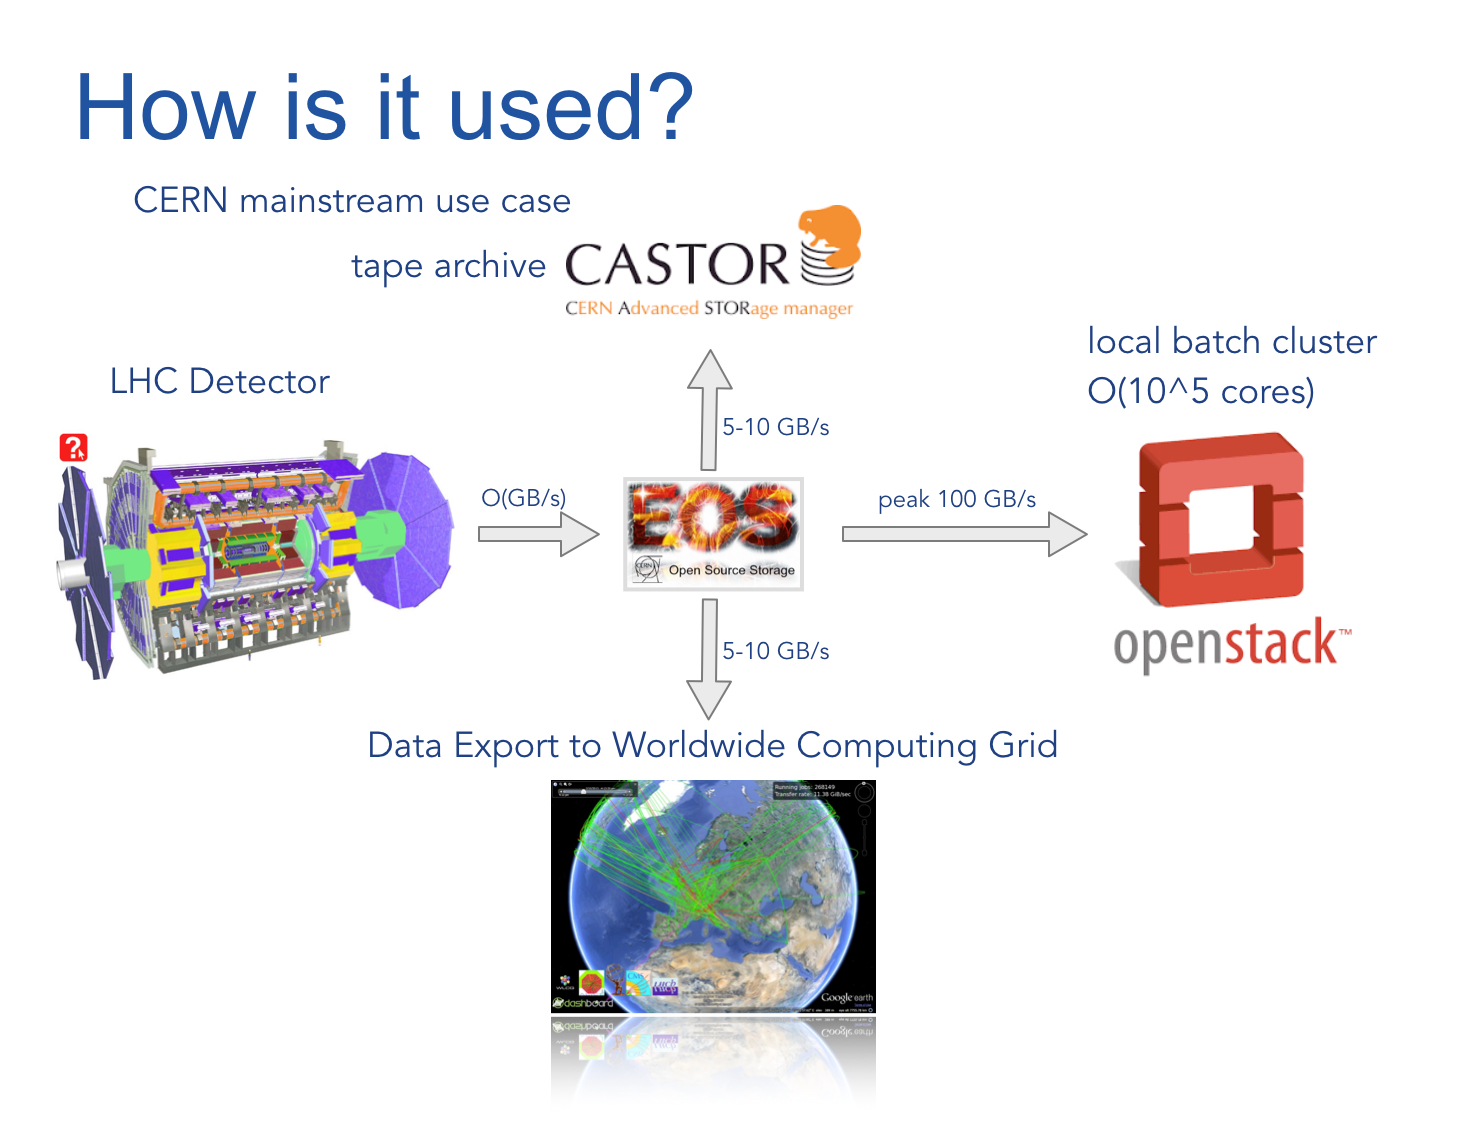
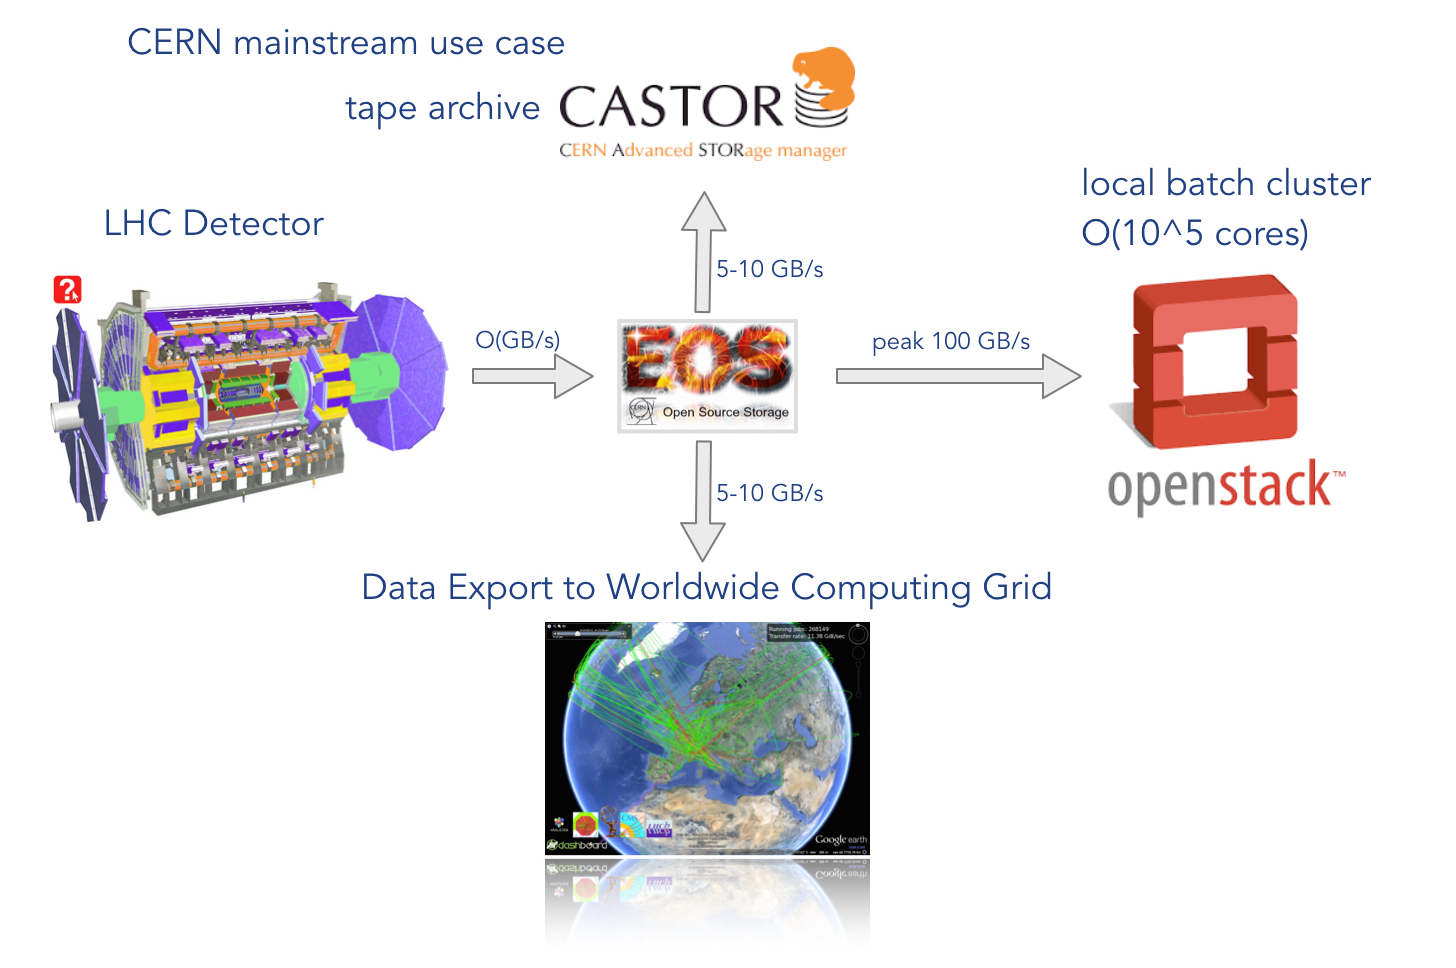
DOC: intro updates

diff --git a/doc/intro.rst b/doc/intro.rst
@@ -5,18 +5,17 @@ Introduction
 
 History
 -------
-The `EOS <http:://eos.cern.ch>`_ project was started in April 2010 in the IT DSS group. The first production version of EOS was running in 2011.
+The `EOS <http:://eos.cern.ch>`_ project was started in April 2010 in the CERN IT data storage group. 
 
 
 Goal
 ----
 
-The main goal of the project is to provide fast and reliable disk only storage technology for CERN LHC use cases. The following picture demonstrates the principle use case at CERN:
+The main goal of the project is to provide fast and reliable disk only storage technology for CERN `LHC <https://home.cern/topics/large-hadron-collider>`_ use cases. The following picture demonstrates the main use case at CERN:
 
 .. image:: eos-usage-cern.jpg
-   :scale: 50 %
+   :scale: 25 %
    :align: center
-
 
 
 Software Versions
@@ -35,18 +34,20 @@ Architecture
 
 EOS is made by three components:
 
-* MGM - metadata server
-* FST - storage server
-* MQ - message broker for asynchronous messaging
+* **MGM** - metadata server
+* **FST** - storage server
+* **MQ** - message broker for asynchronous messaging
 
 .. image:: eos-base-arch.jpg
-   :scale: 50 %
+   :scale: 25 %
    :align: center
 
-The initial architecture is using an in-memory namespace implementation with a master-slave high-availability model. This implementation provides very low-latency. Since the CITRINE release the architecture has been modified to provide optinal an in-memory namespace cache and a KV store for persistency. This was necessary to overcome the scalability limitation of the meta-data service given by the maximum available RAM of MGM nodes.
+The initial architecture is using an in-memory namespace implementation with a master-slave high-availability model. This implementation provides very low-latency for meta data acccess. 
+
+Since the CITRINE release the architecture has been modified to provide optinal an in-memory namespace cache and a KV store for persistency. This was necessary to overcome the scalability limitation of the meta-data service given by the maximum available RAM of **MGM** nodes.
 
 .. image:: eos-architecture.jpg
-   :scale: 50 %
+   :scale: 25 %
    :align: center
 
 Storage Concepts
@@ -54,11 +55,11 @@ Storage Concepts
 
 EOS uses a storage index concept to identify where and how files are stored. These information is stored inside the meta data of each file. 
 
-Files are stored with a layout. The following layouts are supported
+Files are stored with a a so called **layout**. The following layouts are supported
 
-* plain - a file is stored as a plain file in one filesystem
-* replica - a file is stored with a variable number of replicas in `n` filesystems
-* rain - 
+* **plain** - a file is stored as a plain file in one filesystem
+* **replica** - a file is stored with a variable number of replicas in `n` filesystems
+* **rain** - reed-solomon encoded files with data and parity blocks 
   
   * raid6 - a file is chunked into blocks and stored in `n-2` filesystems for data and `2` filesystems for parity blocks
   * archive - a file is chunked into blcoks and stored in `n-3` filesystems for data and `3` filesystems for parity blocks
@@ -66,21 +67,23 @@ Files are stored with a layout. The following layouts are supported
 
 EOS groups storage resources into three logical categories:
 
-* spaces
-* groups
-* filesystems
+* **spaces**
+* **groups**
+* **filesystems**
 
 A **space** is used to reference a physical location when files are placed by the storage system. **spaces** are made by placement **groups**. **groups** consist of one or many filesystems. The EOS scheduler selects a **group** to store all replicas or chunks of a file are stored within a single **group**. Therefore the filesystems within a group should never be on the same node to guarantee availability with node failures.
 
 Protocols and Clients
 ---------------------
 
-EOS is based on the `XRootD Framework <https://xrootd.org>`_.  The native protocol is the **xrootd** protocol. The second native protocol is **http/webdav** currently implemented using `libmicrohttpd`. 
+EOS is based on the `XRootD Framework <https://xrootd.org>`_.  The native protocol is the **xrootd** protocol, which providess additional functionalities like vector reads, third party copy transfers etc. 
 
-EOS can be used like a filesystem using FUSE clients. There are two implementations of FUSE available:
+A second embedded protocol is **http/webdav** currently implemented using `libmicrohttpd`. 
+
+EOS can be used like a filesystem using FUSE clients. There are two implementations available:
 
 * **eosd** - available for BERYL and CITRINE - limited POSIX conformity
-* **eosxd** - available for CITRINE - improved POSIX conformity 
+* **eosxd** - available for CITRINE - improved POSIX conformity, cross-client consistency aso. 
 
 EOS has been extended to work simliar to `Owncloud <owncloud.org>`_ as a sync and share platform. The branded product is called `CERNBox <https://cernbox.web.cern.ch>`_. 
 
@@ -98,7 +101,7 @@ The target architecture for the next major release version is shown in the follo
    :scale: 50%
    :align: center
 
-The goal is to reach full scalability and high-availability of all service components and to embedd better external storage systems.
+The goal is to reach full scalability and high-availability of all service components and to embed better external storage resources like shared filesystems and cloud storage.
 
 
 
